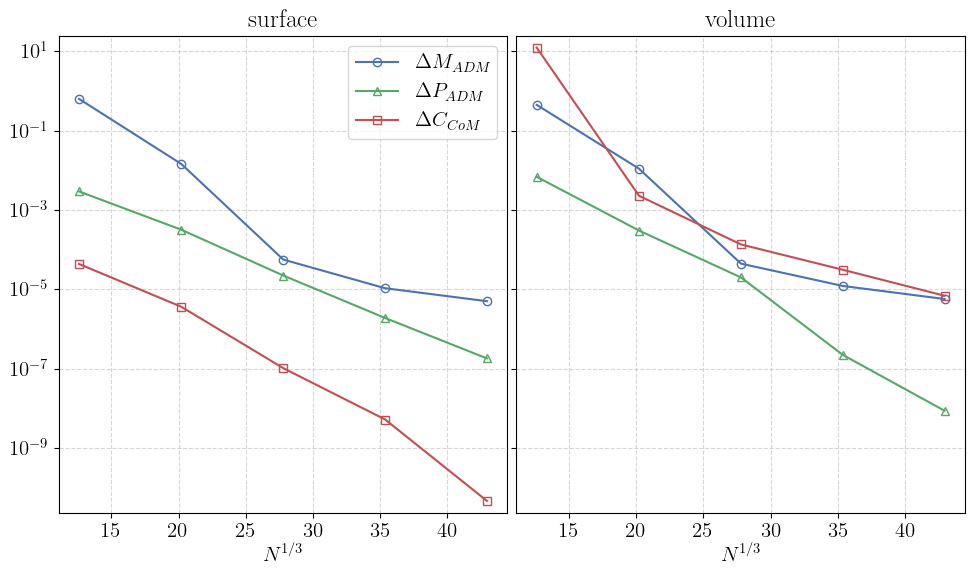
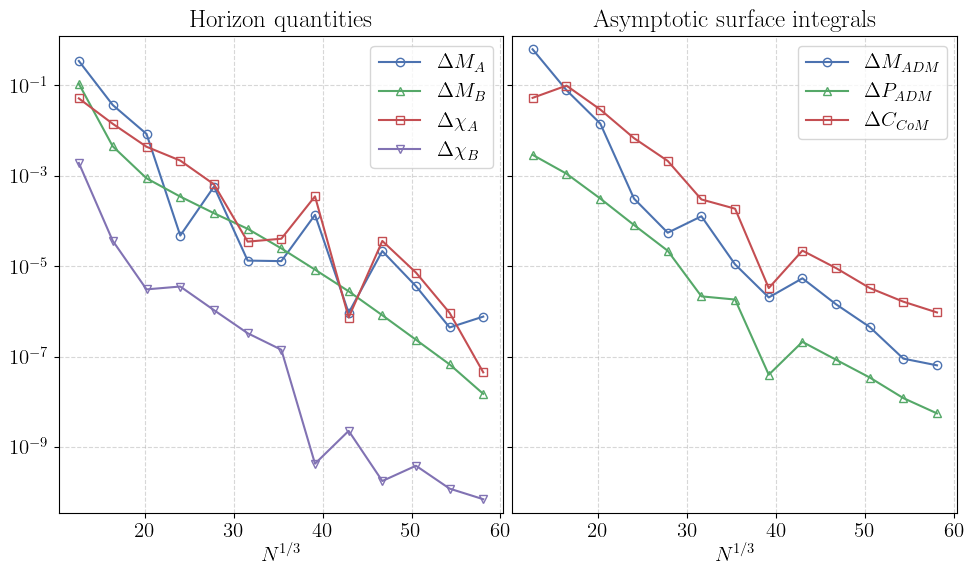
Generate paper plots.

diff --git a/plots/paper/resolution_convergence.py b/plots/paper/resolution_convergence.py
@@ -21,7 +21,7 @@ plt.rcParams.update({
 })
 
 L_values = [0]
-P_values = [2, 3, 4, 5, 6, 7, 8, 9, 10, 12]
+P_values = [2, 3, 4, 5, 6, 7, 8, 9, 10, 11, 12, 13, 14, 15]
 
 def get_data(dir):
   print(dir)
@@ -30,6 +30,10 @@ def get_data(dir):
   adm_masses = []
   adm_momenta = []
   centers_of_mass = []
+  masses_a = []
+  masses_b = []
+  spins_a = []
+  spins_b = []
 
   for L in L_values:
     for P in P_values:
@@ -37,6 +41,8 @@ def get_data(dir):
 
       try:
         adm_integrals = np.loadtxt(f'{dir}/{subdir}/BbhReductions/AdmIntegrals.dat', comments='#')
+        AhA = np.loadtxt(f'{dir}/{subdir}/Horizons/AhA.dat', comments='#')
+        AhB = np.loadtxt(f'{dir}/{subdir}/Horizons/AhB.dat', comments='#')
 
         number_of_points = adm_integrals[0]
 
@@ -52,10 +58,27 @@ def get_data(dir):
         center_of_mass_z = adm_integrals[7]
         center_of_mass = np.sqrt(center_of_mass_x**2 + center_of_mass_y**2 + center_of_mass_z**2)
 
+        mass_a = AhA[4]
+        mass_b = AhB[4]
+
+        spin_a_x = AhA[6]
+        spin_a_y = AhA[7]
+        spin_a_z = AhA[8]
+        spin_a = np.sqrt(spin_a_x**2 + spin_a_y**2 + spin_a_z**2)
+
+        spin_b_x = AhB[6]
+        spin_b_y = AhB[7]
+        spin_b_z = AhB[8]
+        spin_b = np.sqrt(spin_b_x**2 + spin_b_y**2 + spin_b_z**2)
+
         N.append(number_of_points)
         adm_masses.append(adm_mass)
         adm_momenta.append(adm_linear_momentum)
         centers_of_mass.append(center_of_mass)
+        masses_a.append(mass_a)
+        masses_b.append(mass_b)
+        spins_a.append(spin_a)
+        spins_b.append(spin_b)
 
       except Exception as e:
         print(f'\tSkipped {subdir} due to error: {e}')
@@ -64,12 +87,20 @@ def get_data(dir):
   adm_masses = np.array(adm_masses)
   adm_momenta = np.array(adm_momenta)
   centers_of_mass = np.array(centers_of_mass)
+  masses_a = np.array(masses_a)
+  masses_b = np.array(masses_b)
+  spins_a = np.array(spins_a)
+  spins_b = np.array(spins_b)
 
   sort_indices = np.argsort(N)
   N = N[sort_indices]
   adm_masses = adm_masses[sort_indices]
   adm_momenta = adm_momenta[sort_indices]
   centers_of_mass = centers_of_mass[sort_indices]
+  masses_a = masses_a[sort_indices]
+  masses_b = masses_b[sort_indices]
+  spins_a = spins_a[sort_indices]
+  spins_b = spins_b[sort_indices]
 
   N3rt = N**(1./3.)
 
@@ -77,12 +108,20 @@ def get_data(dir):
   D_adm_masses = np.abs(adm_masses - adm_masses[-1])[:-1]
   D_adm_momenta = np.abs(adm_momenta - adm_momenta[-1])[:-1]
   D_centers_of_mass = np.abs(centers_of_mass - centers_of_mass[-1])[:-1]
+  D_masses_a = np.abs(masses_a - masses_a[-1])[:-1]
+  D_masses_b = np.abs(masses_b - masses_b[-1])[:-1]
+  D_spins_a = np.abs(spins_a - spins_a[-1])[:-1]
+  D_spins_b = np.abs(spins_b - spins_b[-1])[:-1]
 
   return {
     'N3rt': N3rt,
     'D_adm_masses': D_adm_masses,
     'D_adm_momenta': D_adm_momenta,
     'D_centers_of_mass': D_centers_of_mass,
+    'D_masses_a': D_masses_a,
+    'D_masses_b': D_masses_b,
+    'D_spins_a': D_spins_a,
+    'D_spins_b': D_spins_b,
   }
 
 fig, axes = plt.subplots(1, 2, squeeze=True)
@@ -91,32 +130,48 @@ col = 0
 data_min = np.Infinity
 data_max = -np.Infinity
 
-def plot(title, data):
+def plot(title, data, plot_horizon_quantities=False):
   global col, data_min, data_max
   ax = axes[col]
   col += 1
 
   ax.set_title(title)
 
-  ax.plot(data['N3rt'], data['D_adm_masses'], label=r'$\Delta M_{ADM}$')
-  ax.plot(data['N3rt'], data['D_adm_momenta'], label=r'$\Delta P_{ADM}$')
-  ax.plot(data['N3rt'], data['D_centers_of_mass'], label=r'$\Delta C_{CoM}$')
+  if plot_horizon_quantities:
+    ax.plot(data['N3rt'], data['D_masses_a'], label=r'$\Delta M_A$')
+    ax.plot(data['N3rt'], data['D_masses_b'], label=r'$\Delta M_B$')
+    ax.plot(data['N3rt'], data['D_spins_a'], label=r'$\Delta \chi_A$')
+    ax.plot(data['N3rt'], data['D_spins_b'], label=r'$\Delta \chi_B$')
 
-  for values in [data['D_adm_masses'], data['D_adm_momenta'], data['D_centers_of_mass']]:
-    data_min = min(data_min, np.min(values))
-    data_max = max(data_max, np.max(values))
+    for values in [data['D_masses_a'], data['D_masses_b'], data['D_spins_a'], data['D_spins_b']]:
+      data_min = min(data_min, np.min(values))
+      data_max = max(data_max, np.max(values))
+  else:
+    ax.plot(data['N3rt'], data['D_adm_masses'], label=r'$\Delta M_{ADM}$')
+    ax.plot(data['N3rt'], data['D_adm_momenta'], label=r'$\Delta P_{ADM}$')
+    ax.plot(data['N3rt'], data['D_centers_of_mass'], label=r'$\Delta C_{CoM}$')
+
+    for values in [data['D_adm_masses'], data['D_adm_momenta'], data['D_centers_of_mass']]:
+      data_min = min(data_min, np.min(values))
+      data_max = max(data_max, np.max(values))
 
 plot(
-  'surface',
+  'Horizon quantities',
+  get_data('./data/resolution_convergence/q3-surface'),
+  plot_horizon_quantities=True
+)
+plot(
+  'Asymptotic surface integrals',
   get_data('./data/resolution_convergence/q3-surface')
 )
-plot(
-  'volume',
-  get_data('./data/resolution_convergence/q3-volume')
-)
+# plot(
+#   'Asymptotic volume integrals',
+#   get_data('./data/resolution_convergence/q3-volume')
+# )
 
 for ax in axes:
   ax.set_xlabel(r'$N^{1/3}$')
+  ax.legend(loc='upper right')
 
   ax.set_xscale('linear')
   ax.set_yscale('log')
@@ -128,9 +183,6 @@ for ax in axes:
 # Remove y tick labels
 for ax in axes[1:]:
   ax.set_yticklabels([])
-
-# Add legend to one axis
-axes[0].legend()
 
 fig.set_size_inches(10,6)
 plt.tight_layout()

diff --git a/plots/paper/root_finding.py b/plots/paper/root_finding.py
@@ -1,0 +1,126 @@
+# type: ignore
+import numpy as np
+import matplotlib.pyplot as plt
+from matplotlib.ticker import MaxNLocator
+from cycler import cycler
+
+colors = [
+  '#4c72b0', '#55a868', '#c44e52', '#8172b3', '#937860', '#da8bc3', '#8c8c8c',
+  '#ccb974', '#64b5cd'
+]
+markers = ['o', '^', 's', 'v', 'D', '<', '*', '>', '+']
+markersizes = [7] * len(markers)
+markersizes[6] = 10
+plt.rcParams.update({
+	'text.usetex' : True,
+	'font.family' : 'serif',
+	'font.serif' : ['Computer Modern Serif'],
+	'font.size': 15,
+	'axes.prop_cycle': cycler('color', colors) +
+                     cycler('marker', markers) +
+										 cycler('markerfacecolor', ['none'] * len(colors)) +
+										 cycler('markersize', markersizes) 
+})
+
+# title = r'L=0, P=9 (60000 points, $N^{1/3}\approx39$)'
+# fname_ext = 'P09'
+# dir = './data/root_finding/damping-P09'
+
+# title = r'L=0, P=9 (60000 points, $N^{1/3}\approx39$)'
+# fname_ext = 'P9-no1'
+# dir = './data/root_finding/damping-mid_resolution-no1'
+
+title = r'L=0, P=12 (128778 points, $N^{1/3}\approx51$)'
+fname_ext = 'P12'
+dir = './data/root_finding/damping-P12'
+
+# title = r'L=0, P=15 (236544 points, $N^{1/3}\approx62$)'
+# fname_ext = 'P15'
+# dir = './data/root_finding/damping-lower_tolerance'
+
+# title = r'L=1, P=6'
+# fname_ext = 'L1P6'
+# dir = './data/root_finding/diagonal'
+
+# title = r'delay'
+# fname_ext = 'delay'
+# dir = './data/root_finding/delay_first_2_its'
+
+# title = r'L=1, P=8'
+# fname_ext = 'L1P8'
+# dir = './data/root_finding/delay-L1P8'
+
+control_data = np.loadtxt(f'{dir}/ControlParamsData.txt', delimiter=',', dtype=float)
+
+iterations = control_data[:,0].astype(int)
+residuals = np.max(np.abs(control_data[:,1:]), axis=1)
+residuals_mass_a = np.abs(control_data[:,1])
+residuals_mass_b = np.abs(control_data[:,2])
+residuals_chi_a_x = np.abs(control_data[:,3])
+residuals_chi_a_y = np.abs(control_data[:,4])
+residuals_chi_a_z = np.abs(control_data[:,5])
+residuals_chi_b_x = np.abs(control_data[:,6])
+residuals_chi_b_y = np.abs(control_data[:,7])
+residuals_chi_b_z = np.abs(control_data[:,8])
+residuals_CoM_x = np.abs(control_data[:,9])
+residuals_CoM_y = np.abs(control_data[:,10])
+residuals_CoM_z = np.abs(control_data[:,11])
+residuals_Padm_x = np.abs(control_data[:,12])
+residuals_Padm_y = np.abs(control_data[:,13])
+residuals_Padm_z = np.abs(control_data[:,14])
+
+data_min = np.min(np.abs(control_data[:,1:].flatten()))
+data_max = np.max(np.abs(control_data[:,1:].flatten()))
+
+fig, axes = plt.subplots(2, 3, squeeze=True)
+
+axes[0,0].plot(iterations, residuals, label=r'Control residual')
+
+axes[0,1].plot(iterations, residuals_mass_a, label=r'$|M_A-M_A^*|$')
+axes[0,1].plot(iterations, residuals_mass_b, label=r'$|M_B-M_B^*|$')
+
+axes[0,2].plot(iterations, residuals_chi_a_x, label=r'$|\chi_A^x-\chi_A^{x,*}|$')
+axes[0,2].plot(iterations, residuals_chi_a_y, label=r'$|\chi_A^y-\chi_A^{y,*}|$')
+axes[0,2].plot(iterations, residuals_chi_a_z, label=r'$|\chi_A^z-\chi_A^{z,*}|$')
+
+axes[1,0].plot(iterations, residuals_chi_b_x, label=r'$|\chi_B^x-\chi_B^{x,*}|$')
+axes[1,0].plot(iterations, residuals_chi_b_y, label=r'$|\chi_B^y-\chi_B^{y,*}|$')
+axes[1,0].plot(iterations, residuals_chi_b_z, label=r'$|\chi_B^z-\chi_B^{z,*}|$')
+
+axes[1,1].plot(iterations, residuals_Padm_x, label=r'$|P_{ADM}^x|$')
+axes[1,1].plot(iterations, residuals_Padm_y, label=r'$|P_{ADM}^y|$')
+axes[1,1].plot(iterations, residuals_Padm_z, label=r'$|P_{ADM}^z|$')
+
+axes[1,2].plot(iterations, residuals_CoM_x, label=r'$|C_{CoM}^x|$')
+axes[1,2].plot(iterations, residuals_CoM_y, label=r'$|C_{CoM}^y|$')
+axes[1,2].plot(iterations, residuals_CoM_z, label=r'$|C_{CoM}^z|$')
+
+plt.suptitle(title)
+
+for ax in axes.flatten():
+  ax.set_xlabel(r'$k$')
+  ax.legend(loc='upper right')
+
+  ax.set_xscale('linear')
+  ax.set_yscale('log')
+
+  ax.set_ylim(data_min/2., data_max*2.)
+
+  ax.xaxis.set_major_locator(MaxNLocator(integer=True))
+  ax.grid('on', linestyle='--', alpha=0.5)
+
+# Remove x tick labels
+for ax in axes[:-1,:].flatten():
+  ax.set_xticklabels([])
+
+# Remove y tick labels
+for ax in axes[:,1:].flatten():
+  ax.set_yticklabels([])
+
+fig.set_size_inches(16,8)
+plt.tight_layout()
+plt.subplots_adjust(wspace=0.01, hspace=0.02)
+
+fig.savefig(f'root_finding-{fname_ext}.png', format='png', bbox_inches='tight')
+
+plt.show()

diff --git a/plots/paper/root_finding_methods.py b/plots/paper/root_finding_methods.py
@@ -60,6 +60,7 @@ def plot(title, args):
 plot("Delayed/damped Broyden's method", [
   [r'Delay first 2 iterations', get_data('./data/root_finding/delay_first_2_its')],
   [r'Damp with $(1-e^{-k})$', get_data('./data/root_finding/damp_initial_iterations')],
+  [r'Diagonal', get_data('./data/root_finding/diagonal')],
   [r'{scipy(broyden1)}: alpha = 1', get_data('./data/root_finding/scipy_noline')],
   [r'{scipy(broyden1)}: alpha = 0.25', get_data('./data/root_finding/scipy_noline_damped')],
 ])
